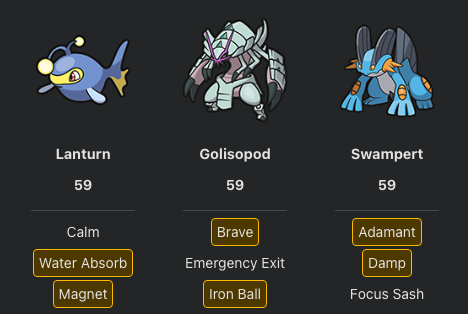
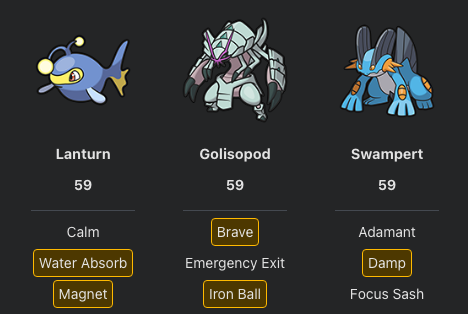
redo sabrina

Changed region(s): [[0.7479, 0.6879, 0.9274, 0.8025]]

diff --git a/site/src/data/guide/sabrina.ts b/site/src/data/guide/sabrina.ts
@@ -2711,32 +2711,32 @@ const _box23 = getBox({
       nature: "Brave",
       ability: "Protean",
       item: "Expert Belt",
-      moves: ["Cut", "Flower Trick", "Knock Off", "Play Rough"],
+      moves: ["Cut", "Flower Trick", "Play Rough", "Thunder Punch"],
     },
     Swampert: {
-      nature: "Brave",
+      nature: "Adamant",
       ability: "Torrent",
       item: "Focus Sash",
-      moves: ["Earthquake", "Flip Turn", "Ice Punch", "Tackle"],
+      moves: ["Earthquake", "Flip Turn", "Growl", "Tackle"],
     },
     "Arcanine-H": {
       nature: "Brave",
       ability: "Rock Head",
       item: "Cheri Berry",
-      moves: ["Accelerock", "Flare Blitz", "Head Smash", "Play Rough"],
+      moves: ["Accelerock", "Flamethrower", "Flare Blitz", "Head Smash"],
     },
     Cloyster: {
       nature: "Impish",
       ability: "Shell Armor",
       item: "Never-Melt Ice",
-      moves: ["Ice Shard", "Icicle Crash", "Icicle Spear", "Liquidation"],
+      moves: ["Aurora Beam", "Ice Shard", "Icicle Spear", "Spike Cannon"],
       friend: undefined,
     },
     Gyarados: {
       nature: "Impish",
-      ability: "Intimidate",
-      item: "Leftovers",
-      moves: ["Aqua Tail", "Bulldoze", "Rest", "Scary Face"],
+      ability: "Unnerve",
+      item: "Sitrus Berry",
+      moves: ["Aqua Tail", "Reflect", "Rest", "Scary Face"],
     },
   },
   team: ["Golisopod", "Meowscarada", "Swampert", "Arcanine-H", "Cloyster", "Gyarados"],
@@ -2776,6 +2776,25 @@ export const saffronCityDumassKidBattle: Moment = {
                 { player: "{p:Meowscarada} switch to {p:Swampert}" },
                 { opponent: "{o:Zapdos} Thunder {p:Swampert}" },
               ],
+            ],
+            branches: [
+              {
+                branches: [
+                  "96% → Swampert Flip Turn Zapdos",
+                  "4% → Swampert Flip Turn Zapdos (to 0)",
+                ],
+              },
+            ],
+          },
+        ],
+        frags: { Meowscarada: 1 },
+      },
+      {
+        line: "96% → Swampert Flip Turn Zapdos",
+        matchups: [
+          {
+            matchup: ["Zapdos"],
+            turns: [            
               [
                 { opponent: "{o:Zapdos} Hurricane (Z) {p:Swampert} to {+:1}" },
                 { player: "{p:Swampert} Flip Turn {o:Zapdos} to {-:75}" },
@@ -2786,7 +2805,32 @@ export const saffronCityDumassKidBattle: Moment = {
                 { opponent: "{o:Zapdos} fainted" },
               ],
             ],
+            branches: [{ branches: ["Arcanine-H switch to Meowscarada"] }],
           },
+        ],
+        frags: { "Arcanine-H": 1 },
+      },
+      {
+        line: "4% → Swampert Flip Turn Zapdos (to 0)",
+        matchups: [
+          {
+            matchup: ["Zapdos"],
+            turns: [            
+              [
+                { opponent: "{o:Zapdos} Hurricane (Z) {p:Swampert} to {+:1}" },
+                { player: "{p:Swampert} Flip Turn {o:Zapdos} (crit) to {=:0}" },
+                { opponent: "{o:Zapdos} fainted" },
+                { player: "{p:Swampert} switch to {p:Arcanine-H}" },
+              ],
+            ],
+            branches: [{ branches: ["Arcanine-H switch to Meowscarada"] }],
+          },
+        ],
+        frags: { Swampert: 1 },
+      },
+      {
+        line: "Arcanine-H switch to Meowscarada",
+        matchups: [
           {
             matchup: ["Goodra"],
             turns: [
@@ -2824,17 +2868,10 @@ export const saffronCityDumassKidBattle: Moment = {
               [
                 { player: "{p:Cloyster} switch to {p:Gyarados}" },
                 { opponent: "{o:Swampert-Mega} Pow-Up Punch {p:Gyarados} to {+:172}" },
-                { opponent: "{p:Gyarados} Leftovers to {+:184}" },
               ],
               [
-                { opponent: "{o:Swampert-Mega} Pow-Up Punch {p:Gyarados} to {+:157}" },
-                { player: "{p:Gyarados} Bulldoze {o:Swampert-Mega} to {-:176}" },
-                { opponent: "{p:Gyarados} Leftovers to {+:169}" },
-              ],
-              [
-                { opponent: "{o:Swampert-Mega} Pow-Up Punch {p:Gyarados} to {+:130}" },
-                { player: "{p:Gyarados} Bulldoze {o:Swampert-Mega} to {-:147}" },
-                { opponent: "{p:Gyarados} Leftovers to {+:142}" },
+                { opponent: "{o:Swampert-Mega} Pow-Up Punch {p:Gyarados} to {+:133}" },
+                { player: "{p:Gyarados} Scary Face {o:Swampert-Mega}" },
               ],
               [
                 { player: "{p:Gyarados} switch to {p:Golisopod}" },
@@ -2857,7 +2894,7 @@ export const saffronCityDumassKidBattle: Moment = {
             ],
           },
         ],
-        frags: { Meowscarada: 4, "Arcanine-H": 2 },
+        frags: { Meowscarada: 3, "Arcanine-H": 1 },
       },
     ],
   },
@@ -2914,7 +2951,7 @@ const _box25 = getBox({
       nature: "Adamant",
       ability: "Damp",
       item: "Focus Sash",
-      moves: ["Bulldoze", "Flip Turn", "Growl", "Rock Slide"],
+      moves: ["Earthquake", "Flip Turn", "Growl", "Rock Slide"],
     },
     Perrserker: {
       nature: "Relaxed",

diff --git a/site/tests/guide.spec.ts b/site/tests/guide.spec.ts
@@ -170,8 +170,16 @@ async function getFeatureSnapshot(
   await loc.evaluate((el) => el.scrollIntoView({ block: "start" }));
   const box = await loc.boundingBox();
 
-  for (const theme of ["dark", "light"] as const) {
-    await page.evaluate((t) => document.documentElement.setAttribute("data-theme", t), theme);
+  for (const theme of ["dark", "light", "stream"] as const) {
+    await page.evaluate((t) => {
+      if (t === "stream") {
+        document.documentElement.setAttribute("data-theme", "dark");
+        document.documentElement.setAttribute("data-stream-mode", "true");
+      } else {
+        document.documentElement.setAttribute("data-theme", t);
+        document.documentElement.removeAttribute("data-stream-mode");
+      }
+    }, theme);
     await page.waitForTimeout(100);
 
     const filename = slugify([...parts, featureIndex.value++]).replace(/battle|table/g, "feature");

diff --git a/site/src/components/HomepageFeatures/index.tsx b/site/src/components/HomepageFeatures/index.tsx
@@ -1,4 +1,5 @@
 import { useColorMode } from "@docusaurus/theme-common";
+import { useStreamMode } from "@site/src/utils/streamMode";
 import Heading from "@theme/Heading";
 import clsx from "clsx";
 import type { ReactNode } from "react";
@@ -45,12 +46,14 @@ const FeatureList: FeatureItem[] = [
 
 function Feature({ title, img, description }: FeatureItem) {
   const { colorMode } = useColorMode();
+  const streamActive = useStreamMode();
+  const mode = streamActive && colorMode === "dark" ? "stream" : colorMode;
   return (
     <div className={clsx("col col--4")}>
       <div className={styles.featureContent}>
         <div className={styles.featureImgWrapper}>
           <img
-            src={`/radred/img/${img}-${colorMode}.png`}
+            src={`/radred/img/${img}-${mode}.png`}
             alt={title}
             className={styles.featureImg}
           />
